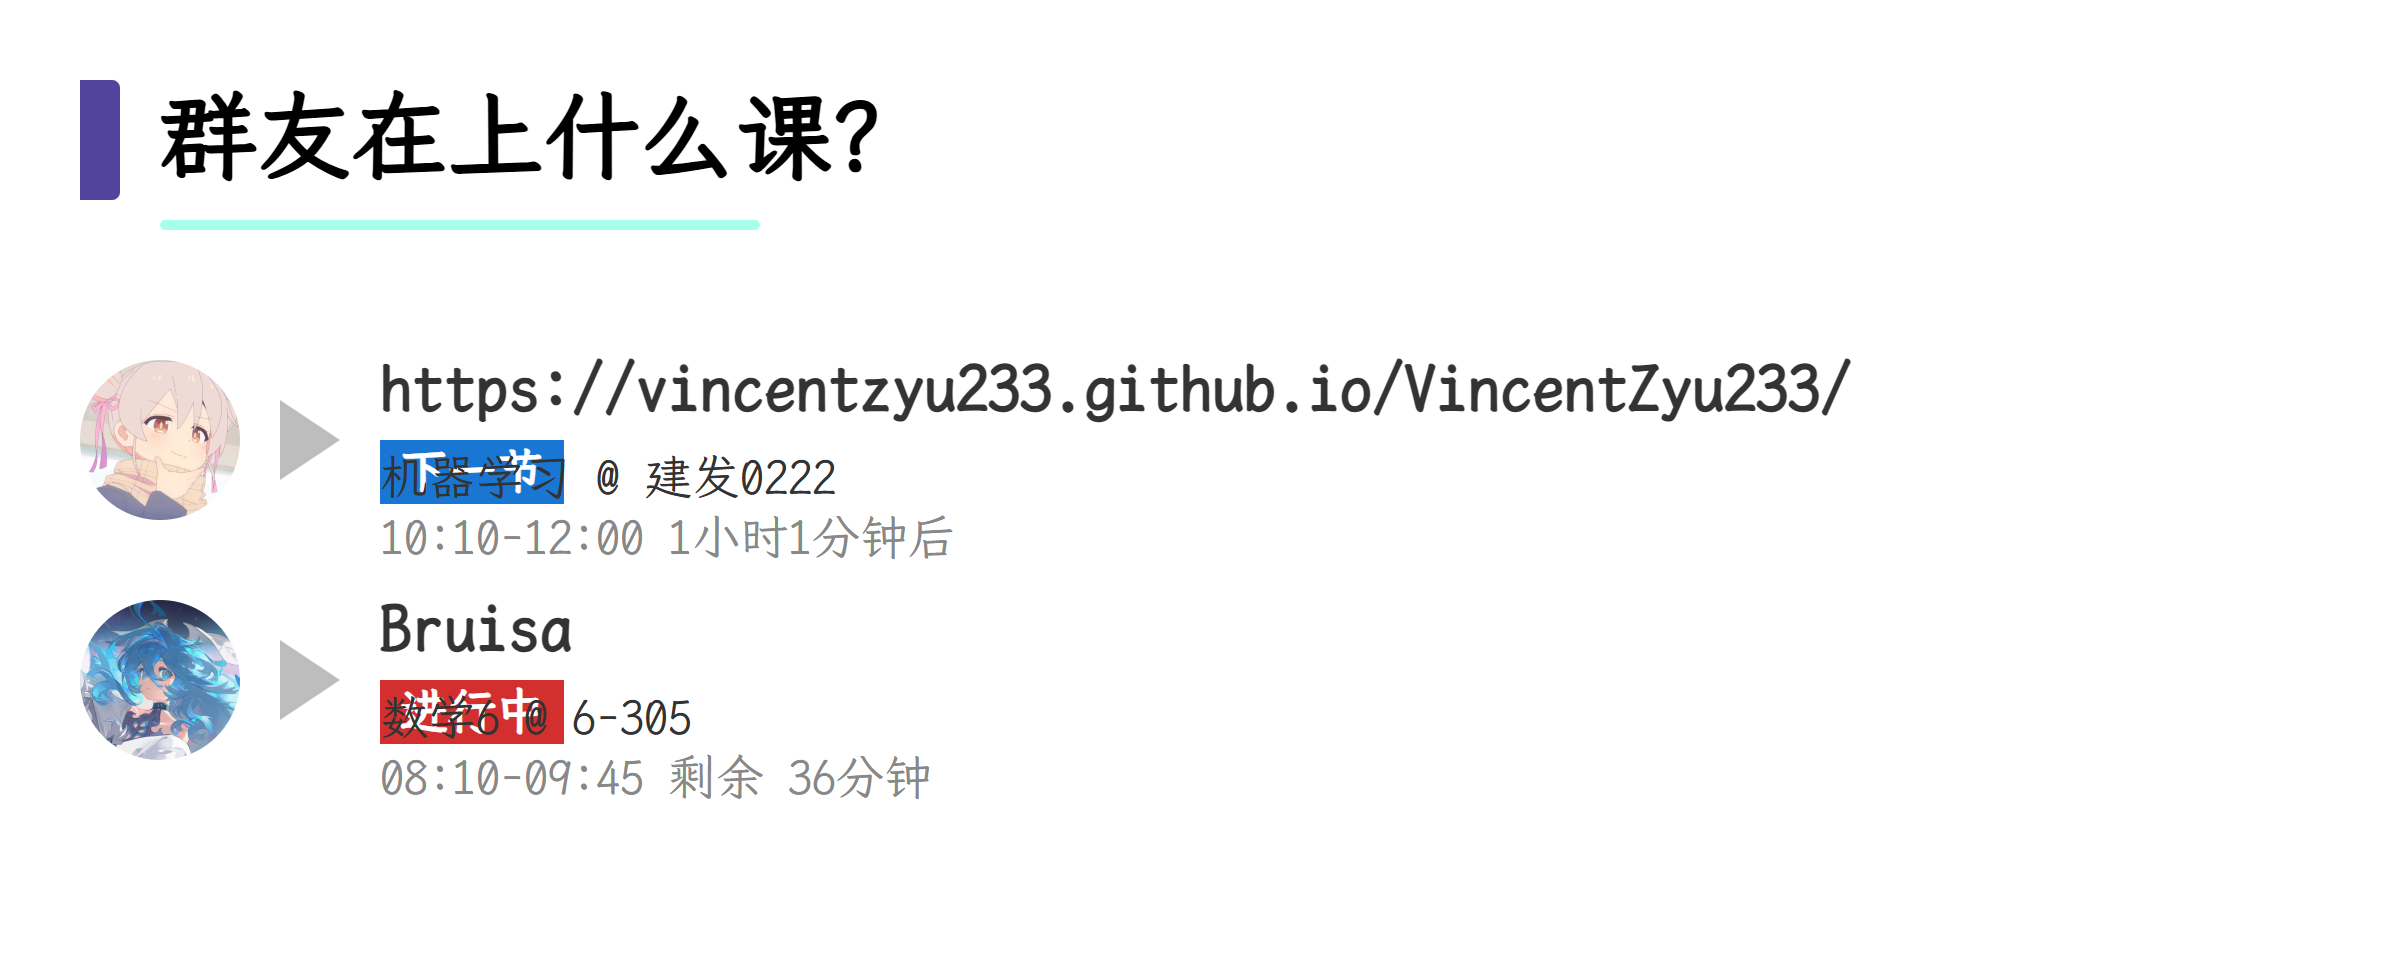
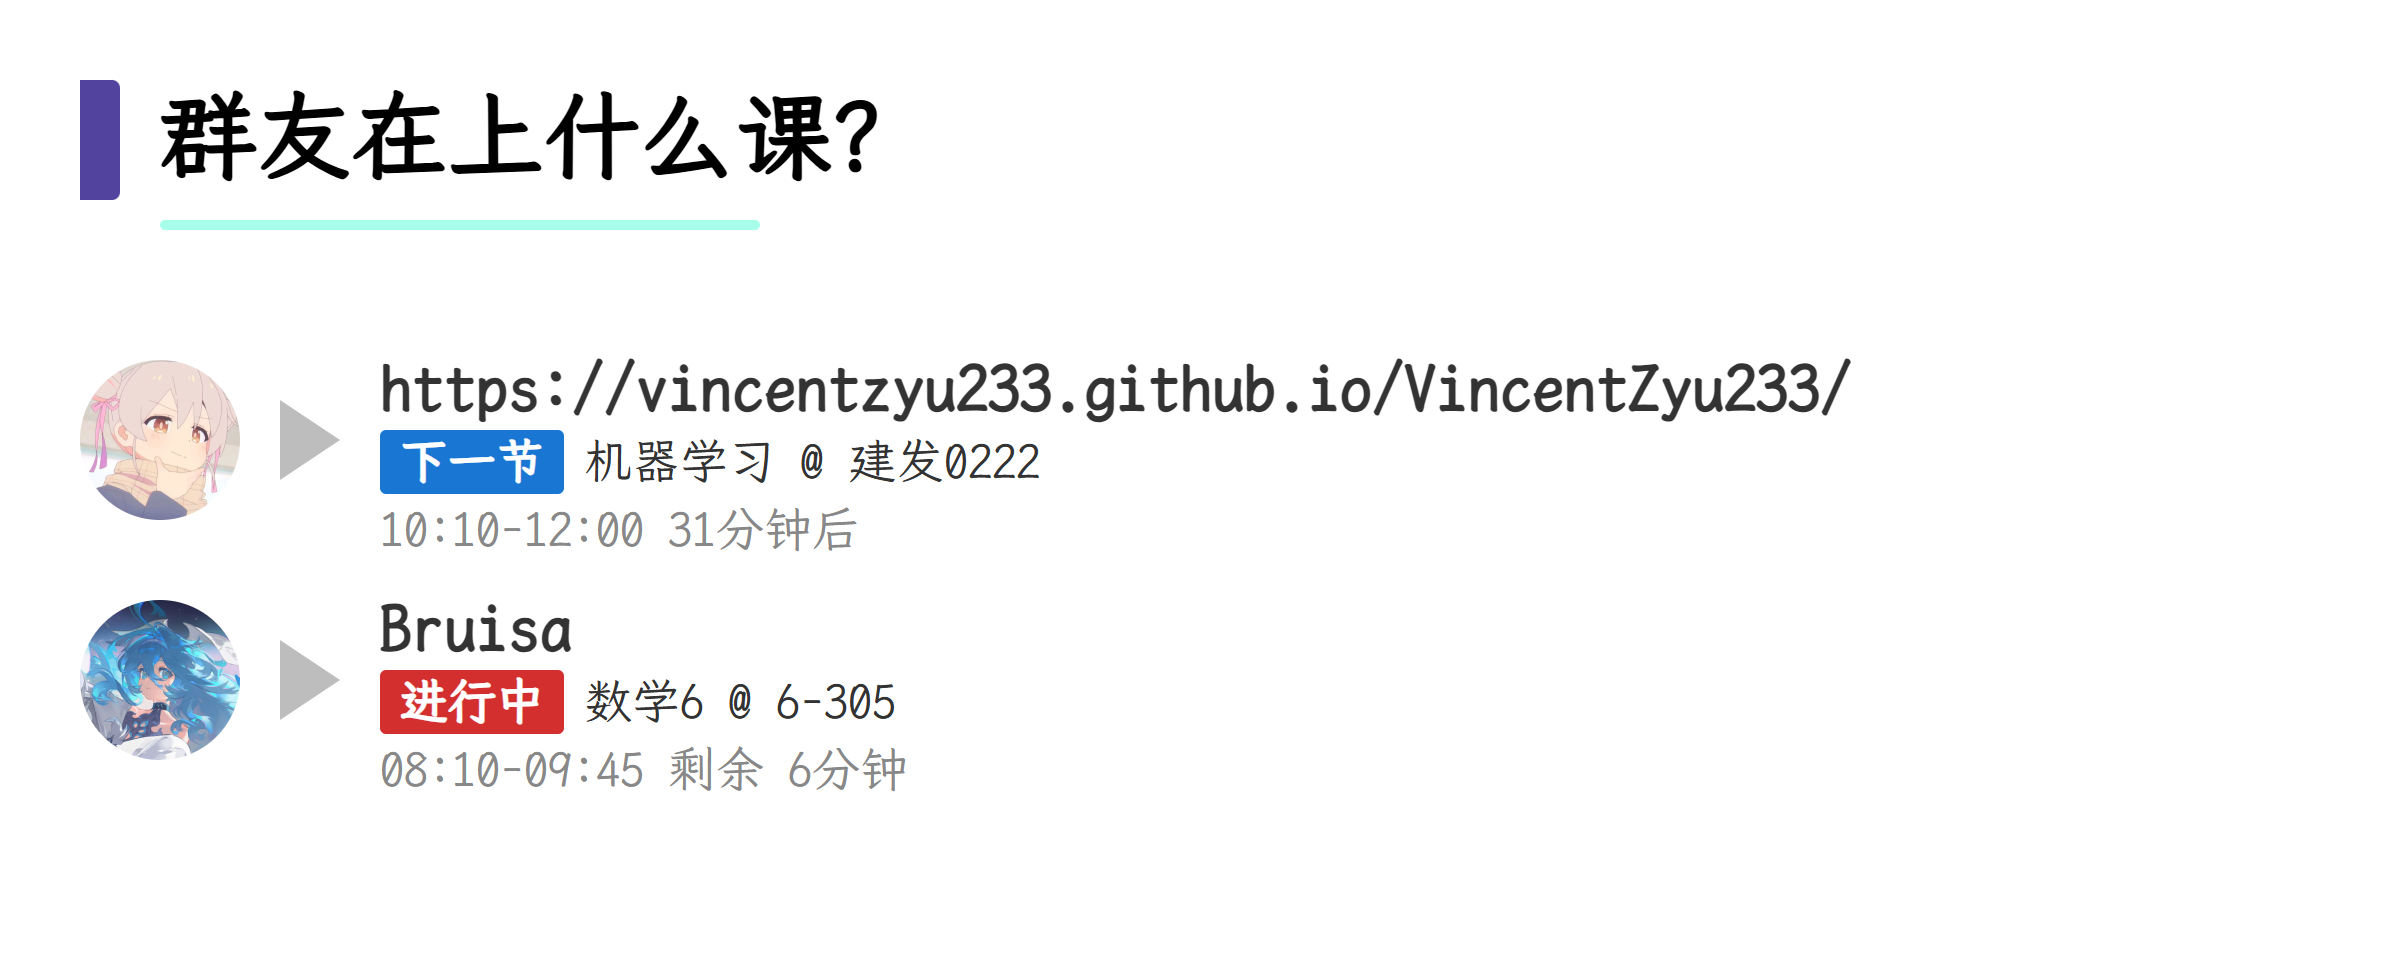
fix: 重构群课表模板布局，状态标签与课程摘要改为 flex 横向排列
- src/render/template.ts：群课表模板移除绝对定位的 .bd/.su/.ti，改为 .mc flex 容器包裹，状态标签与课程摘要横向排列（gap:10px），时间信息单独一行

- 修复状态标签与课程摘要可能重叠的问题，新增 border-radius 圆角样式

- 版本号升至 0.2.2-beta.3+20260527

Changed region(s): [[0.1562, 0.4375, 0.4375, 0.5938], [0.1562, 0.6875, 0.4062, 0.8438]]

diff --git a/src/render/template.ts b/src/render/template.ts
@@ -32,9 +32,13 @@ export function renderGroupScheduleTemplate(items: DayCourseView[], title: strin
       <img class="av" src="${esc(item.useravatar || FALLBACK_AVATAR)}" alt="">
       <div class="ar"></div>
       <div class="nn" style="top:15px">${esc(item.username)}</div>
-      <div class="bd" style="top:60px;background:${s.bg};color:${s.fg}">${s.label}</div>
-      <div class="su" style="top:65px">${esc(summary)}</div>
-      <div class="ti" style="top:95px">${esc(timeInfo)}</div>
+      <div class="mc" style="top:55px">
+        <div class="mr">
+          <div class="bd" style="background:${s.bg};color:${s.fg}">${s.label}</div>
+          <div class="su">${esc(summary)}</div>
+        </div>
+        <div class="ti">${esc(timeInfo)}</div>
+      </div>
     </div>`
   }).join('')
 
@@ -50,9 +54,11 @@ body{width:1200px;background:#FFF;font-family:${ff(fontName)}"Microsoft YaHei","
 .av{position:absolute;left:40px;top:20px;width:80px;height:80px;border-radius:50%;object-fit:cover;background:#e0e0e0}
 .ar{position:absolute;left:140px;top:40px;width:0;height:0;border-top:20px solid transparent;border-bottom:20px solid transparent;border-left:30px solid #BDBDBD}
 .nn{position:absolute;left:190px;font-size:32px;font-weight:700;color:#333;white-space:nowrap}
-.bd{position:absolute;left:190px;font-size:24px;font-weight:700;padding:2px 10px;white-space:nowrap}
-.su{position:absolute;left:190px;font-size:24px;color:#333;white-space:nowrap;overflow:hidden;text-overflow:ellipsis;max-width:950px}
-.ti{position:absolute;left:190px;font-size:24px;color:#888;white-space:nowrap}
+.mc{position:absolute;left:190px;display:flex;flex-direction:column;gap:4px}
+.mr{display:flex;align-items:center;gap:10px}
+.bd{font-size:24px;font-weight:700;padding:2px 10px;white-space:nowrap;border-radius:3px}
+.su{font-size:24px;color:#333;white-space:nowrap;overflow:hidden;text-overflow:ellipsis;max-width:950px}
+.ti{font-size:24px;color:#888;white-space:nowrap}
 </style></head><body>
 <div class="w">
   <div class="ac"></div>
